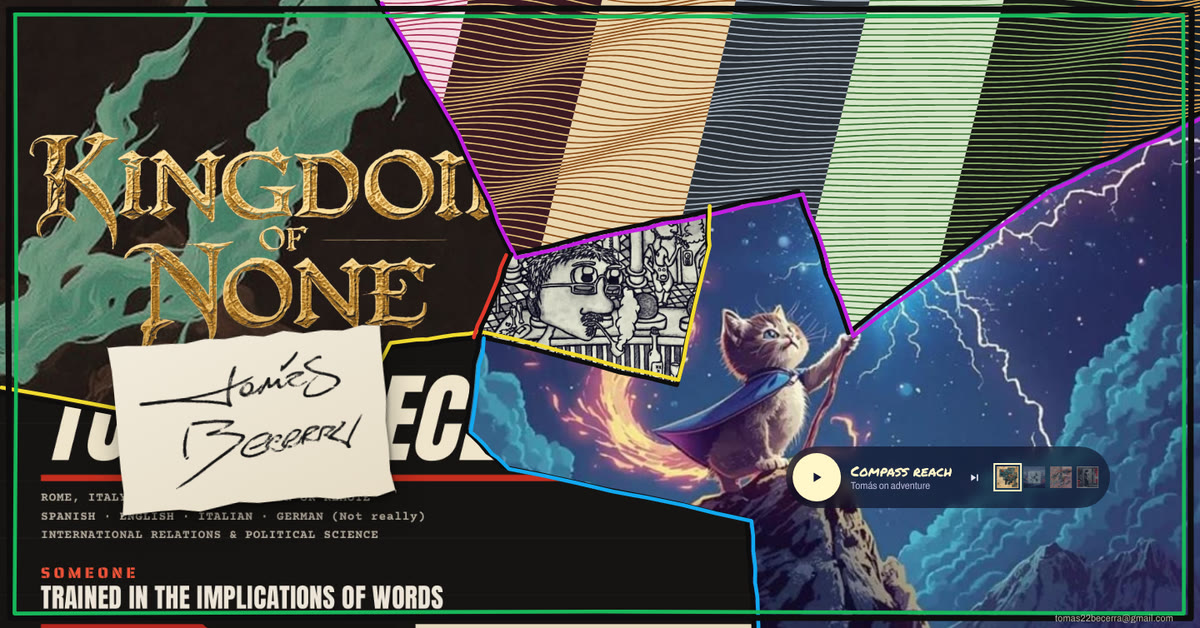
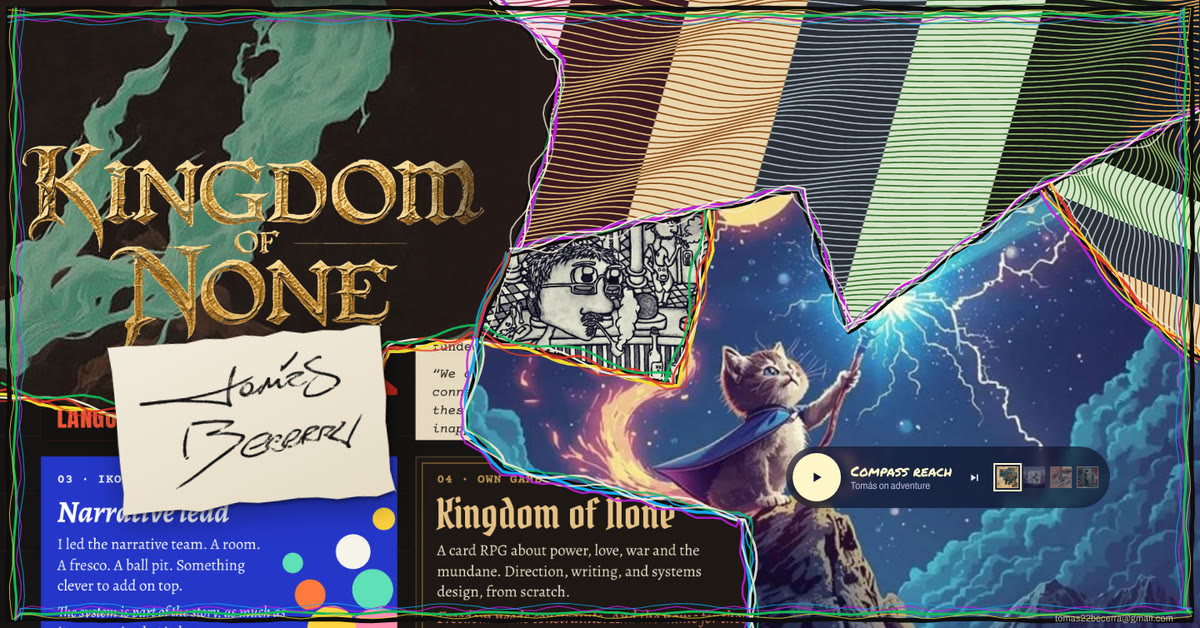
Landing: filament borders, a whole title, and a shard of the stories
The borders are now bundles of irregular filaments in many colours,
each led by the colour of Tomás's drawing, and while the music plays
every filament trembles with the waveform on its own phase.

Following his red lines: the kingdom's border moves right and its
title is sized to its territory so it always reads whole, and a shard
of Unfinished Paragraphs (the same op-art field turned on its side)
comes down the right edge, eating into the music. The CV looks at its
middle, so the printed name no longer repeats the signature.

Claude-Session: https://claude.ai/code/session_01EVCeffHbnCJvWdUcfoXmBy

diff --git a/index.html b/index.html
@@ -49,9 +49,12 @@ a.reg{cursor:pointer}
 .reg .media>img{transition:filter .6s ease}
 .wall.has-on .reg:not(.on) .media>img,.wall.has-on .reg:not(.on) .media>canvas.op{filter:saturate(.75) brightness(.78)}
 
-.r-kon .media>img{object-position:50% 46%}
+.r-kon .media{background:#251a17}
+.r-kon .media>img{inset:auto;width:auto;height:auto;object-fit:fill;
+  -webkit-mask-image:linear-gradient(to right,#000 80%,transparent),linear-gradient(to bottom,transparent,#000 9%,#000 80%,transparent);-webkit-mask-composite:source-in;
+  mask-image:linear-gradient(to right,#000 80%,transparent),linear-gradient(to bottom,transparent,#000 9%,#000 80%,transparent);mask-composite:intersect}
 .r-why .media>img{object-position:44% 50%}
-.r-cv .media>img{object-position:50% 0}
+.r-cv .media>img{object-position:50% 47%}
 .r-toa{pointer-events:none}
 .r-toa .media>img{transition:filter .8s ease,opacity .5s ease}
 .r-toa.playing .media>img{filter:brightness(.42) saturate(.85)}
@@ -132,6 +135,9 @@ a.reg{cursor:pointer}
     <span class="media"><canvas class="op" id="op"></canvas></span>
     <span class="tag t-up">Unfinished Paragraphs</span>
   </a>
+  <a class="reg r-up2" data-k="up2" href="unfinished-paragraphs.html" aria-label="Unfinished Paragraphs, seven short stories" tabindex="-1">
+    <span class="media"><canvas class="op" id="op2"></canvas></span>
+  </a>
   <a class="reg r-why" data-k="why" href="why.html" aria-label="Why Tomás Becerra?, an essay">
     <span class="media"><img src="landing/why.jpg" alt="" width="1084" height="722"></span>
     <span class="tag t-why">Why Tomás Becerra?</span>
@@ -179,31 +185,36 @@ let playing = false, active = null, rafOn = false, buf = null, level = 0;
 /* ---------- the map of the wall, from Tomás's drawing (percent of the screen, landscape) ---------- */
 const BASE = {
   TL: [0, 0], TR: [100, 0], BR: [100, 100], BL: [0, 100],
-  p1: [31.4, 0], p2: [37.8, 20.8], p3: [42.6, 40.5], p4: [53.7, 35.7], J: [59, 33.6],
+  // (21/10, Tomás's red lines) the border of the kingdom moves right so its title reads whole,
+  // and a shard of Unfinished comes down the right edge, eating into the music
+  p1: [41, 0], p2: [46.5, 9.5], p2b: [45.6, 22], p3: [42.6, 40.5], p4: [53.7, 35.7], J: [59, 33.6],
   p5: [66.5, 30.4], p6: [70.7, 53], p7: [87.2, 29.8], p8: [100, 18],
+  q1: [91.6, 41.8], q2: [97.2, 53.5], q3: [100, 57],
   y1: [0, 62.5], y2: [27.7, 72], y3: [32.4, 55.4], y4: [39.9, 53.6], y5: [56.4, 61.3], y6: [59, 39.9],
   b2: [38.8, 68.5], b3: [42, 74.4], b4: [62.2, 82.7], b5: [62.8, 100],
 };
 // which edge a point sits on: it may slide along it, never leave it
-const EDGE = { TL: 'c', TR: 'c', BR: 'c', BL: 'c', p1: 'top', p8: 'right', y1: 'left', b5: 'bottom' };
+const EDGE = { TL: 'c', TR: 'c', BR: 'c', BL: 'c', p1: 'top', p8: 'right', q3: 'right', y1: 'left', b5: 'bottom' };
 const REGIONS = {
-  kon: ['TL', 'p1', 'p2', 'p3', 'y4', 'y3', 'y2', 'y1'],
-  up: ['p1', 'TR', 'p8', 'p7', 'p6', 'p5', 'J', 'p4', 'p3', 'p2'],
-  toa: ['J', 'p5', 'p6', 'p7', 'p8', 'BR', 'b5', 'b4', 'b3', 'b2', 'y4', 'y5', 'y6'],
+  kon: ['TL', 'p1', 'p2', 'p2b', 'p3', 'y4', 'y3', 'y2', 'y1'],
+  up: ['p1', 'TR', 'p8', 'p7', 'p6', 'p5', 'J', 'p4', 'p3', 'p2b', 'p2'],
+  up2: ['p7', 'p8', 'q3', 'q2', 'q1'],
+  toa: ['J', 'p5', 'p6', 'p7', 'q1', 'q2', 'q3', 'BR', 'b5', 'b4', 'b3', 'b2', 'y4', 'y5', 'y6'],
   cv: ['y1', 'y2', 'y3', 'y4', 'b2', 'b3', 'b4', 'b5', 'BL'],
   why: ['p3', 'p4', 'J', 'y6', 'y5', 'y4'],
 };
-// the borders: an ink line and, beside it, its colour (as in his drawing)
+// the borders: bundles of irregular filaments in many colours, each bundle led by the colour of his drawing
 const BORDERS = [
-  { pts: ['p1', 'p2', 'p3', 'p4', 'J', 'p5', 'p6', 'p7', 'p8'], color: 'var(--purple)', off: [6, 4], music: true },
-  { pts: ['y1', 'y2', 'y3', 'y4', 'y5', 'y6', 'J'], color: 'var(--yellow)', off: [2, -6], music: true },
-  { pts: ['y4', 'b2', 'b3', 'b4', 'b5'], color: 'var(--blue)', off: [6, 2], music: true },
-  { pts: ['p3', 'y4'], color: 'var(--red)', off: [-6, 1] },
+  { pts: ['p1', 'p2', 'p2b', 'p3', 'p4', 'J', 'p5', 'p6', 'p7', 'p8'], color: 'var(--purple)', music: true },
+  { pts: ['y1', 'y2', 'y3', 'y4', 'y5', 'y6', 'J'], color: 'var(--yellow)', music: true },
+  { pts: ['y4', 'b2', 'b3', 'b4', 'b5'], color: 'var(--blue)', music: true },
+  { pts: ['p3', 'y4'], color: 'var(--red)' },
+  { pts: ['p7', 'q1', 'q2', 'q3'], color: 'var(--red)', music: true },
 ];
 // where each territory says its name, and where the music's dot sits
 const TAGS = { kon: [15, 47], up: [70, 13], why: [49.5, 49], cv: [8, 79], toa: [83, 44] };
-const TAGS_P = { kon: [34, 7], up: [16, 52], why: [48, 52], cv: [84, 57], toa: [66, 66] };   // phones: the wall turned on its side
-const PLAYER = [79, 76], PLAYER_P = [60, 91];
+const TAGS_P = { kon: [24, 38], up: [16, 58], why: [48, 52], cv: [84, 57], toa: [66, 62] };   // phones: the wall turned on its side
+const PLAYER = [79, 76], PLAYER_P = [62, 79];
 // the signature, on its scrap, pasted over the printed name at the top of the CV
 const SIG = { x: 21, y: 67, w: 23, rot: -5 }, SIG_P = { x: 70, y: 30, w: 50, rot: -7 };
 
@@ -215,15 +226,15 @@ function resetPoints() { for (const k in BASE) { cur[k] = orient(BASE[k]); tgt[k
 
 /* ---------- a small seeded random: the wobble of the hand is the same on every visit ---------- */
 function rng(seed) { let s = seed >>> 0; return () => { s = (s * 1664525 + 1013904223) >>> 0; return s / 4294967296; }; }
-const jit = BORDERS.map((b, i) => { const r = rng(17 + i * 31); return b.pts.slice(1).map(() => Array.from({ length: 7 }, () => [(r() - .5) * 3, (r() - .5) * 3])); });
 
 /* ---------- regions, their media and their names ---------- */
 const regs = {};
 document.querySelectorAll('.reg').forEach(el => {
   const k = el.dataset.k;
-  const tag = el.querySelector('.tag'); $('#tags').appendChild(tag);   // names live above the wall, so no border cuts them
+  const tag = el.querySelector('.tag'); if (tag) $('#tags').appendChild(tag);   // names live above the wall, so no border cuts them
   regs[k] = { el, k, media: el.querySelector('.media'), img: el.querySelector('.media>img'), video: el.querySelector('video'), tag };
 });
+regs.up2.tag = regs.up.tag;   // the shard is a piece of the stories: it says their name
 const px = ([x, y]) => [x / 100 * W, y / 100 * H];
 function layoutStatic() {
   W = innerWidth; H = innerHeight;
@@ -237,6 +248,7 @@ function layoutStatic() {
     const l = Math.max(0, Math.min(...xs) - m), t = Math.max(0, Math.min(...ys) - m);
     const r = Math.min(100, Math.max(...xs) + m), b = Math.min(100, Math.max(...ys) + m);
     Object.assign(regs[k].media.style, { left: l + '%', top: t + '%', width: (r - l) + '%', height: (b - t) + '%' });
+    if (k === 'up2') continue;
     const [tx, ty] = portrait ? TAGS_P[k] : TAGS[k];
     Object.assign(regs[k].tag.style, { left: tx + '%', top: ty + '%' });
   }
@@ -244,9 +256,18 @@ function layoutStatic() {
   Object.assign($('#player').style, { left: qx + '%', top: qy + '%' });
   const sig = $('#sig'), S = portrait ? SIG_P : SIG;
   Object.assign(sig.style, { left: S.x + '%', top: S.y + '%', width: S.w + 'vw', transform: `translate(-50%,-50%) rotate(${S.rot}deg)` });
-  tearScrap();
-  drawOp(0); sizeOsc();
+  tearScrap(); placeKingdom();
+  drawOp(opPhase); sizeOsc();
   render();
+}
+
+// the kingdom's title is sized to its territory, so it always reads whole; the smoke fades into its own dark
+function placeKingdom() {
+  const S = portrait ? Math.min(W * .66, H * .45) : Math.min(W * .44, H * .95);
+  const top = portrait ? H * .2 - S / 2 : -.03 * S;   // on a phone the title sits in the middle of its tall territory
+  Object.assign(regs.kon.img.style, { width: S + 'px', height: S + 'px', left: (-.01 * S) + 'px', top: top + 'px' });
+  // the CV looks at its middle, so the printed name does not repeat the signature; a phone's tall box needs a closer look
+  Object.assign(regs.cv.img.style, portrait ? { height: '150%', top: '-25%' } : { height: '', top: '' });
 }
 
 // the scrap is torn by hand on all four sides
@@ -261,58 +282,85 @@ function tearScrap() {
 
 /* ---------- drawing the wall ---------- */
 function polyCSS(k) { return 'polygon(' + REGIONS[k].map(n => `${cur[n][0].toFixed(2)}% ${cur[n][1].toFixed(2)}%`).join(',') + ')'; }
-const pathEls = BORDERS.map(() => { const g = document.createElementNS(NS, 'g'); svg.appendChild(g);
-  const ink = document.createElementNS(NS, 'path'), col = document.createElementNS(NS, 'path'); g.append(ink, col); return { ink, col }; });
-const frame = (() => { const g = document.createElementNS(NS, 'g'); svg.appendChild(g);
-  const ink = document.createElementNS(NS, 'path'), col = document.createElementNS(NS, 'path'); g.append(ink, col); return { ink, col }; })();
+const PALETTE = ['var(--purple)', 'var(--yellow)', 'var(--blue)', 'var(--green)', 'var(--red)', '#f4ecd8'];
+function makeStrands(dominant, seed, n) {
+  const r = rng(seed), list = [];
+  list.push({ color: '#0d0d0d', w: 3.8, off: 0, a: 1.3, f: 1 / 90, ph: r() * 6, g: .55, lag: 0, op: 1 });      // the ink core
+  list.push({ color: dominant, w: 3.6, off: (r() < .5 ? -1 : 1) * (3.5 + r() * 2), a: 2.4, f: 1 / (70 + r() * 60), ph: r() * 6, g: 1, lag: 13, op: 1 });
+  list.push({ color: dominant, w: 1.8, off: (r() - .5) * 16, a: 3.6, f: 1 / (50 + r() * 80), ph: r() * 6, g: 1.3, lag: 29, op: .9 });
+  const others = PALETTE.filter(c => c !== dominant);
+  for (let i = 0; i < n - 3; i++) list.push({ color: others[Math.floor(r() * others.length)], w: 1.1 + r() * 1.9, off: (r() - .5) * 20,
+    a: 2 + r() * 4.5, f: 1 / (40 + r() * 130), ph: r() * 6, g: .8 + r() * 1, lag: Math.floor(r() * 300), op: .7 + r() * .3 });
+  return list;
+}
+function strandEls(strands) {
+  const g = document.createElementNS(NS, 'g'); svg.appendChild(g);
+  return strands.map(st => { const p = document.createElementNS(NS, 'path'); p.setAttribute('stroke', st.color); p.setAttribute('stroke-opacity', st.op); g.appendChild(p); return p; });
+}
+const BUNDLES = BORDERS.map((b, i) => { const strands = makeStrands(b.color, 101 + i * 57, 7); return { strands, els: strandEls(strands) }; });
+const FRAME = (() => {
+  const strands = [
+    { color: '#0d0d0d', w: 5.5, off: 0, a: 1, f: 1 / 160, ph: 1, g: 0, lag: 0, op: 1 },
+    { color: 'var(--green)', w: 3, off: 8, a: 1.6, f: 1 / 120, ph: 2, g: 0, lag: 0, op: 1 },
+    { color: 'var(--purple)', w: 1.2, off: 13, a: 3, f: 1 / 70, ph: 4, g: 0, lag: 0, op: .85 },
+    { color: 'var(--yellow)', w: 1, off: 4, a: 2.6, f: 1 / 95, ph: 5, g: 0, lag: 0, op: .8 },
+    { color: 'var(--blue)', w: 1.1, off: 16, a: 3.4, f: 1 / 140, ph: 3, g: 0, lag: 0, op: .75 },
+  ];
+  return { strands, els: strandEls(strands) };
+})();
 const focusRing = document.createElementNS(NS, 'path'); focusRing.setAttribute('stroke', '#fff'); focusRing.setAttribute('stroke-width', '2'); focusRing.setAttribute('stroke-dasharray', '7 6'); focusRing.style.opacity = 0; svg.appendChild(focusRing);
 
-function borderPts(bi, wave) {
-  const b = BORDERS[bi], out = [];
-  for (let i = 0; i < b.pts.length - 1; i++) {
-    const [x1, y1] = px(cur[b.pts[i]]), [x2, y2] = px(cur[b.pts[i + 1]]);
-    const J = jit[bi][i], n = J.length;
-    const nx = -(y2 - y1), ny = x2 - x1, nl = Math.hypot(nx, ny) || 1;
-    for (let k = 0; k < n; k++) {
-      const t = k / n;
-      let x = x1 + (x2 - x1) * t + (k ? J[k][0] : 0), y = y1 + (y2 - y1) * t + (k ? J[k][1] : 0);
-      if (wave && k) { const s = wave(out.length); x += nx / nl * s; y += ny / nl * s; }
-      out.push([x, y]);
-    }
+const hash = i => { let x = Math.sin(i * 127.1 + 311.7) * 43758.5453; return x - Math.floor(x); };
+// a polyline walked every few pixels: where you are, which way is "across", and how far along
+function walk(pts, step) {
+  const out = []; let s = 0;
+  for (let i = 0; i < pts.length - 1; i++) {
+    const [x1, y1] = pts[i], [x2, y2] = pts[i + 1], L = Math.hypot(x2 - x1, y2 - y1) || 1;
+    const nx = -(y2 - y1) / L, ny = (x2 - x1) / L, n = Math.max(1, Math.round(L / step));
+    for (let k = 0; k < n; k++) { const t = k / n; out.push([x1 + (x2 - x1) * t, y1 + (y2 - y1) * t, nx, ny, s + L * t]); }
+    s += L;
   }
-  out.push(px(cur[b.pts[b.pts.length - 1]]));
+  const a = pts[pts.length - 1], b = out[out.length - 1]; out.push([a[0], a[1], b[2], b[3], s]);
   return out;
 }
 const toD = pts => 'M' + pts.map(([x, y]) => x.toFixed(1) + ',' + y.toFixed(1)).join(' L');
-const thick = () => (Math.min(W, H) < 600 ? 3 : 4.2);
+function strandPath(path, st, scale, wave) {
+  const out = new Array(path.length);
+  for (let i = 0; i < path.length; i++) {
+    const [x, y, nx, ny, s] = path[i];
+    let o = (st.off + st.a * Math.sin(s * st.f * 6.283 + st.ph) + (hash(i + st.lag) - .5) * 1.2) * scale;
+    if (wave && st.g) o += wave(i + st.lag) * st.g;
+    out[i] = [x + nx * o, y + ny * o];
+  }
+  return toD(out);
+}
 function render() {
   for (const k in REGIONS) regs[k].el.style.clipPath = polyCSS(k);
-  const t = thick();
+  const small = Math.min(W, H) < 600, scale = small ? .75 : 1, step = small ? 8 : 10;
   BORDERS.forEach((b, i) => {
-    const wave = playing && b.music && buf && !reduce ? (j => buf[(j * 37 + i * 211) % (buf.length >> 1)] * (5 + level * 12)) : null;
-    const pts = borderPts(i, wave);
-    const { ink, col } = pathEls[i];
-    ink.setAttribute('d', toD(pts)); ink.setAttribute('stroke', '#0d0d0d'); ink.setAttribute('stroke-width', t + 1);
-    const [ox, oy] = portrait ? [b.off[1], b.off[0]] : b.off;
-    col.setAttribute('d', toD(pts.map(([x, y]) => [x + ox * t / 4.2, y + oy * t / 4.2]))); col.setAttribute('stroke', b.color); col.setAttribute('stroke-width', t + .4);
+    const path = walk(b.pts.map(n => px(cur[n])), step);
+    const half = buf ? buf.length >> 1 : 0;
+    const wave = playing && b.music && buf && !reduce ? (j => buf[(j * 5 + i * 211) % half] * (6 + level * 14)) : null;
+    const { strands, els } = BUNDLES[i];
+    strands.forEach((st, j) => {
+      if (small && j > 4) { els[j].setAttribute('d', ''); return; }
+      els[j].setAttribute('d', strandPath(path, st, scale, wave)); els[j].setAttribute('stroke-width', st.w * scale);
+    });
   });
-  // the frame: black at the edge, green just inside, both drawn by hand
-  const e = Math.min(W, H) < 600 ? 7 : 11, g = e + t * 1.8;
-  const box = (m, r) => { const R = rng(r); const w = () => (R() - .5) * 3;
-    return toD([[m + w(), m + w()], [W * .5, m + w()], [W - m + w(), m + w()], [W - m + w(), H * .5], [W - m + w(), H - m + w()], [W * .5, H - m + w()], [m + w(), H - m + w()], [m + w(), H * .5], [m + w(), m + w()]]); };
-  frame.ink.setAttribute('d', box(e, 5)); frame.ink.setAttribute('stroke', '#0d0d0d'); frame.ink.setAttribute('stroke-width', t + 3);
-  frame.col.setAttribute('d', box(g, 9)); frame.col.setAttribute('stroke', 'var(--green)'); frame.col.setAttribute('stroke-width', t + .4);
+  // the frame: ink at the edge and a few coloured threads just inside it
+  const e = small ? 6 : 10, fp = walk([[e, e], [W - e, e], [W - e, H - e], [e, H - e], [e, e]], 14);
+  FRAME.strands.forEach((st, j) => { FRAME.els[j].setAttribute('d', strandPath(fp, st, scale, null)); FRAME.els[j].setAttribute('stroke-width', st.w * scale); });
   if (active && active._focus) focusRing.setAttribute('d', toD(REGIONS[active.k].map(n => px(cur[n]))) + ' Z');
 }
 
-/* the borders draw themselves once, when the wall appears */
+/* the filaments draw themselves once, when the wall appears */
 function drawIn() {
   if (reduce) return;
-  const all = [...pathEls.flatMap(p => [p.ink, p.col]), frame.ink, frame.col];
+  const all = [...BUNDLES.flatMap(b => b.els), ...FRAME.els];
   all.forEach((p, i) => {
-    const L = p.getTotalLength();
+    const L = p.getTotalLength(); if (!L) return;
     p.animate([{ strokeDasharray: `${L} ${L}`, strokeDashoffset: L }, { strokeDasharray: `${L} ${L}`, strokeDashoffset: 0 }],
-      { duration: 900 + (i % 2) * 160, delay: 120 + Math.floor(i / 2) * 110, easing: 'cubic-bezier(.6,.1,.3,1)' });
+      { duration: 800 + hash(i) * 700, delay: 80 + hash(i + 9) * 600, easing: 'cubic-bezier(.6,.1,.3,1)' });
   });
   $('#sigInk').animate([{ clipPath: 'inset(0 100% 0 0)' }, { clipPath: 'inset(0 0 0 0)' }], { duration: 1300, delay: 900, easing: 'cubic-bezier(.5,0,.3,1)', fill: 'backwards' });
   $('#sig').animate([{ opacity: 0, transform: $('#sig').style.transform + ' scale(1.04)' }, { opacity: 1, transform: $('#sig').style.transform }], { duration: 500, delay: 500, easing: 'ease-out', fill: 'backwards' });
@@ -352,7 +400,7 @@ function settle() {
 }
 
 const PANS = {
-  cv: { frames: [{ objectPosition: '50% 0%' }, { objectPosition: '50% 100%' }], dur: 16000 },
+  cv: { frames: [{ objectPosition: '50% 47%' }, { objectPosition: '50% 90%' }, { objectPosition: '50% 30%' }], dur: 18000 },
   why: { frames: [{ objectPosition: '44% 50%' }, { objectPosition: '78% 40%' }, { objectPosition: '20% 60%' }], dur: 15000 },
 };
 function activate(k, viaFocus) {
@@ -361,6 +409,7 @@ function activate(k, viaFocus) {
   if (active) deactivate(active.k);
   active = R; R._focus = !!viaFocus;
   R.el.classList.add('on'); R.tag.classList.add('on'); wall.classList.add('has-on');
+  if (k === 'up' || k === 'up2') { regs.up.el.classList.add('on'); regs.up2.el.classList.add('on'); }   // the shard and the field light up together
   focusRing.style.opacity = viaFocus ? 1 : 0;
   pushFor(k); settle();
   if (R.video) {
@@ -368,14 +417,15 @@ function activate(k, viaFocus) {
     R.video.play().then(() => { if (active === R) R.video.classList.add('live'); }).catch(() => {});
   }
   if (PANS[k] && !reduce) R._pan = R.img.animate(PANS[k].frames, { duration: PANS[k].dur, easing: 'ease-in-out', direction: 'alternate', iterations: Infinity });
-  if (k === 'up') opRun(true);
+  if (k === 'up' || k === 'up2') opRun(true);
 }
 function deactivate(k) {
   const R = regs[k]; if (!R) return;
   R.el.classList.remove('on'); if (!touchOnly) R.tag.classList.remove('on');
+  if (k === 'up' || k === 'up2') { regs.up.el.classList.remove('on'); regs.up2.el.classList.remove('on'); }
   if (R.video) { R.video.pause(); R.video.classList.remove('live'); }
   if (R._pan) { R._pan.cancel(); R._pan = null; }
-  if (k === 'up') opRun(false);
+  if (k === 'up' || k === 'up2') opRun(false);
   if (active === R) { active = null; wall.classList.remove('has-on'); focusRing.style.opacity = 0; pushFor(null); settle(); }
 }
 // the pointer: whichever territory is under it (the borders cross, so we ask the wall, not the element)
@@ -408,30 +458,37 @@ const STORIES = [   // background and ink of each story, from the page's own pal
   ['#f5dce3', '#a63053'], ['#3a1922', '#e0bd76'], ['#ead6ae', '#8a4a15'], ['#2a3036', '#aab6c2'],
   ['#d6e5c9', '#36702f'], ['#161815', '#8fb36c'], ['#121c27', '#e5a852'],
 ];
-const op = $('#op'); let opCtx = null, opPhase = 0, opOn = false, opLast = 0;
-function drawOp(phase) {
-  const box = regs.up.media.getBoundingClientRect(); if (!box.width) return;
+const FIELDS = [{ cv: $('#op'), reg: 'up', turn: false }, { cv: $('#op2'), reg: 'up2', turn: true }];
+let opPhase = 0, opOn = false, opLast = 0;
+function drawField(F, phase) {
+  const box = regs[F.reg].media.getBoundingClientRect(); if (!box.width) return;
   const d = Math.min(2, devicePixelRatio || 1), w = Math.round(box.width * d), h = Math.round(box.height * d);
-  if (op.width !== w || op.height !== h) { op.width = w; op.height = h; }
-  const c = opCtx || (opCtx = op.getContext('2d'));
-  // seven slanted bands of colour
-  const bg = c.createLinearGradient(0, h * .2, w, h * .8), ink = c.createLinearGradient(0, h * .2, w, h * .8);
-  STORIES.forEach(([b, a], i) => { const s0 = i / 7, s1 = (i + 1) / 7; bg.addColorStop(s0, b); bg.addColorStop(s1 - .001, b); ink.addColorStop(s0, a); ink.addColorStop(s1 - .001, a); });
-  c.fillStyle = bg; c.fillRect(0, 0, w, h);
+  if (F.cv.width !== w || F.cv.height !== h) { F.cv.width = w; F.cv.height = h; }
+  const c = F.ctx || (F.ctx = F.cv.getContext('2d'));
+  c.save();
+  // the shard is the same field turned on its side: its waves fall instead of running
+  let fw = w, fh = h;
+  if (F.turn) { c.translate(w, 0); c.rotate(Math.PI / 2); fw = h; fh = w; }
+  const order = F.turn ? [...STORIES].reverse() : STORIES;
+  const bg = c.createLinearGradient(0, fh * .2, fw, fh * .8), ink = c.createLinearGradient(0, fh * .2, fw, fh * .8);
+  order.forEach(([b, a], i) => { const s0 = i / 7, s1 = (i + 1) / 7; bg.addColorStop(s0, b); bg.addColorStop(s1 - .001, b); ink.addColorStop(s0, a); ink.addColorStop(s1 - .001, a); });
+  c.fillStyle = bg; c.fillRect(0, 0, fw, fh);
   // Riley's waves: parallel lines whose swing swells and narrows across the field
-  const gap = 7 * d, n = Math.ceil(h / gap) + 6;
+  const gap = 7 * d, n = Math.ceil(fh / gap) + 6, ph = phase + (F.turn ? 2.1 : 0);
   c.strokeStyle = ink; c.lineWidth = 1.7 * d;
   for (let i = -3; i < n; i++) {
     const y0 = i * gap;
     c.beginPath();
-    for (let x = 0; x <= w; x += 4 * d) {
-      const u = x / w, swell = Math.pow(Math.sin(Math.PI * (u * 1.3 + .1 + .05 * Math.sin(i * .21 + phase * .4))), 2);
-      const y = y0 + swell * 11 * d * Math.sin(u * 22 + i * .33 + phase);
+    for (let x = 0; x <= fw; x += 4 * d) {
+      const u = x / fw, swell = Math.pow(Math.sin(Math.PI * (u * 1.3 + .1 + .05 * Math.sin(i * .21 + ph * .4))), 2);
+      const y = y0 + swell * 11 * d * Math.sin(u * 22 + i * .33 + ph);
       x ? c.lineTo(x, y) : c.moveTo(x, y);
     }
     c.stroke();
   }
+  c.restore();
 }
+function drawOp(phase) { FIELDS.forEach(F => drawField(F, phase)); }
 function opRun(on) {
   opOn = on && !reduce;
   if (opOn) { opLast = performance.now(); requestAnimationFrame(function tick(t) { if (!opOn) return; opPhase += (t - opLast) / 1000 * 1.1; opLast = t; drawOp(opPhase); requestAnimationFrame(tick); }); }
